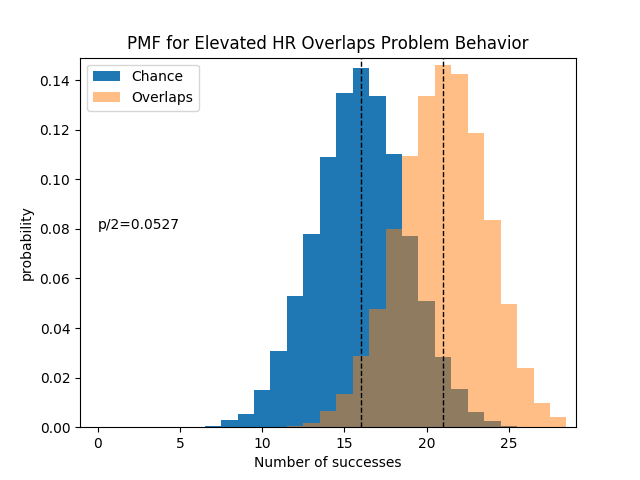
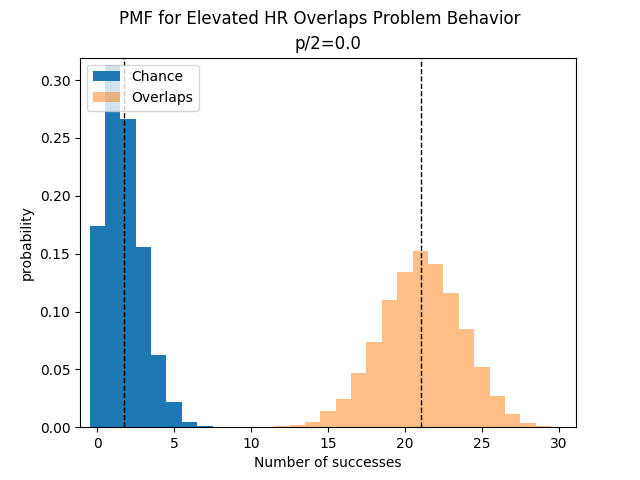
updates to chance

diff --git a/app_fitnesstracker.py b/app_fitnesstracker.py
@@ -29,12 +29,13 @@ def main():
 	precedes_sum = precedes.sum()
 
 	# Calculate chance sum (how many occurences expected by chance)
-	chance_sum = len(precedes) * 0.5
+	chance_prob = 0.05272392315
+	chance_sum = len(precedes) * chance_prob
 
 	# Take 10,000 samples out of the binomial distribution for each case
 	overlapping = np.random.binomial(overlap_len, overlap_avg, size=10000)
 	preceding = np.random.binomial(precedes_len, precedes_avg, size=10000)	
-	chance = np.random.binomial(precedes_len, 0.5, size=10000)
+	chance = np.random.binomial(precedes_len, chance_prob, size=10000)
 
 	# Call function to plot the probability mass function for OVERLAP
 	pmf(overlapping, overlap_sum, chance, chance_sum, 'Overlaps' )
@@ -47,7 +48,7 @@ def pmf(condition_df, condition_sum, chance_df, chance_sum, condition):
 	''' Plots probability mass function along with p-value'''
 
 	# Compute bin edges: bins
-	bins = np.arange(0, max(chance_df)+1.5) - 0.5
+	bins = np.arange(0, max(condition_df)+1.5) - 0.5
 
 	# Generate chance histogram
 	values, bins, _ = plt.hist(chance_df, normed=True, bins=bins, label='Chance')
@@ -55,7 +56,7 @@ def pmf(condition_df, condition_sum, chance_df, chance_sum, condition):
 	# Generate condition histogram
 	_ = plt.hist(condition_df, normed=True, bins=bins, alpha=0.5, label=condition)
 
-	calc_bins = np.arange(min(chance_df), max(chance_df))
+	calc_bins = np.arange(min(chance_df), max(condition_df))
 
 	# Calculate p-value/2 (two-tail test) for when the value is greater or less than the avg
 	if condition_sum > chance_sum:
@@ -70,10 +71,11 @@ def pmf(condition_df, condition_sum, chance_df, chance_sum, condition):
 	# Label axes
 	_ = plt.xlabel('Number of successes')
 	_ = plt.ylabel('probability')
-	_ = plt.title('PMF for Elevated HR ' +condition+ ' Problem Behavior')
+	_ = plt.suptitle('PMF for Elevated HR ' +condition+ ' Problem Behavior')
+	_ = plt.title('p/2='+str(p))
 	_ = plt.axvline(condition_df.mean(), color='k', linestyle='dashed', linewidth=1)
 	_ = plt.axvline(chance_df.mean(), color='k', linestyle='dashed', linewidth=1)
-	_ = plt.annotate('p/2='+str(p), (0,0.08))
+	#_ = plt.annotate('p/2='+str(p), (0,0.08))
 
 	# Make a legend
 	plt.legend(loc='upper left')
